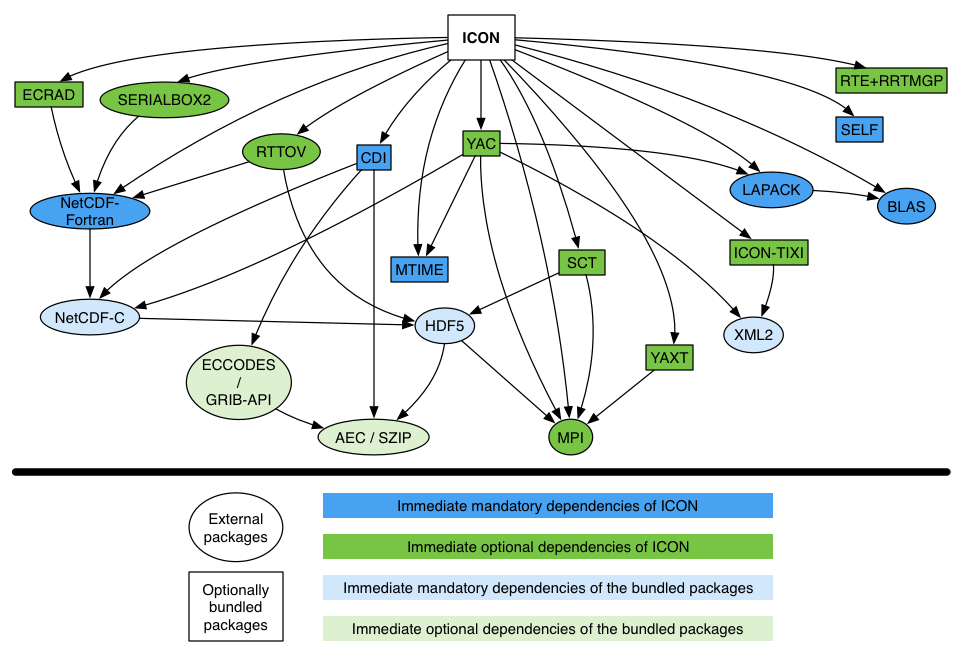
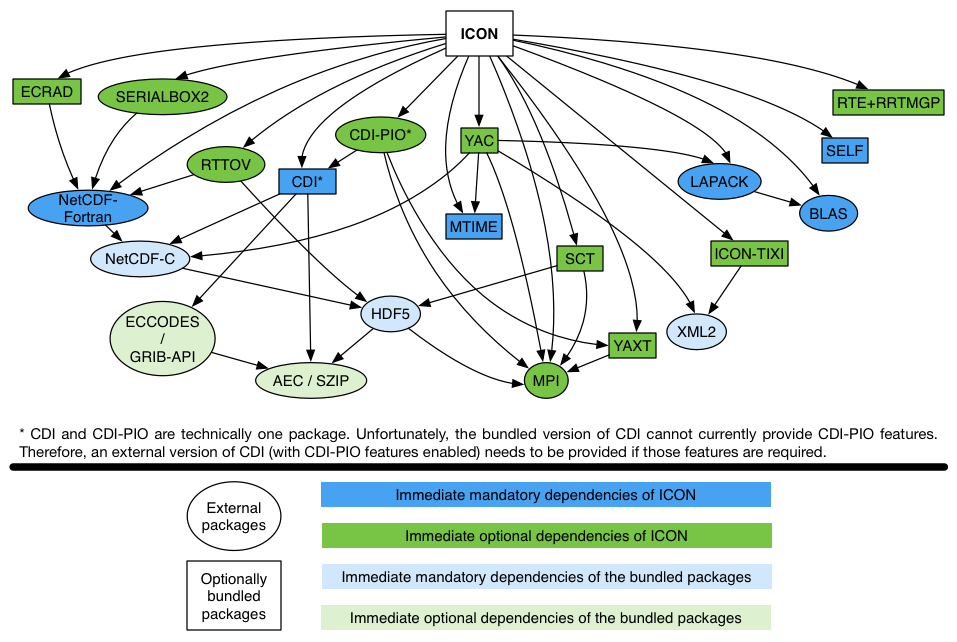
DOC: update.

diff --git a/README.md b/README.md
@@ -40,28 +40,38 @@ Upon successful configuration, the building can be started with the standard
 
 <a name="icon-deptable">*Table 1. ICON dependencies*</a>
 
-| Linking order | Package | Repo | Dependency condition | Required flags |
+| Linking order | Package | Repo | Dependency condition[^1] | Required flags[^1] |
 | :---: | :---: | :---: | :---: | :---: |
 |  1 | [SELF](https://code.mpimet.mpg.de/projects/self-standard-extendible-library-for-fortran) | git@git.mpimet.mpg.de:libself.git (branch: `libself-icon_v0.2-config`) | `--with-external-self` | `FCFLAGS='-I/path/to/libself/include' LDFLAGS='-L/path/to/libself/lib' LIBS='-lself'` |
 |  2 | ICON-TIXI (a modified version of [TIXI](https://github.com/DLR-SC/tixi)) | git@gitlab.dkrz.de:icon-new-config/icon-tixi.git (branch: `new-config-release`) | `--enable-art --with-external-tixi` | `FCFLAGS='-I/path/to/tixi/include' LDFLAGS='-L/path/to/tixi/lib' LIBS='-licon_tixi'` |
-|  3 | [YAC](https://doc.redmine.dkrz.de/YAC/html/) | git@gitlab.dkrz.de:icon-new-config/YAC-dev.git (branch: `new-config-release`) | `--enable-coupling --with-external-yac` | `FCFLAGS='-I/path/to/yac/include' LDFLAGS='-L/path/to/yac/lib -L/path/to/libxml2/lib -L/path/to/netcdf/lib' LIBS='-lyac -lxml2 -lnetcdf'` |
-|  4 | [XML2](http://www.xmlsoft.org/) | | `--enable-coupling` or `--enable-art --without-external-tixi` | `CPPFLAGS='-I/path/to/libxml2/include/libxml2' LDFLAGS='-L/path/to/libxml2/lib' LIBS='-lxml2'` |
+|  3 | [YAC](https://doc.redmine.dkrz.de/YAC/html/) | git@gitlab.dkrz.de:icon-new-config/YAC-dev.git (branch: `new-config-release`) | `--enable-coupling --with-external-yac` | `FCFLAGS='-I/path/to/yac/include' LDFLAGS='-L/path/to/yac/lib' LIBS='-lyac'` |
+|  4 | [XML2](http://www.xmlsoft.org/) | | `--enable-coupling`[^2] or `--enable-art`[^2]| `CPPFLAGS='-I/path/to/libxml2/include/libxml2' LDFLAGS='-L/path/to/libxml2/lib' LIBS='-lxml2'` |
 |  5 | [LAPACK](http://www.netlib.org/lapack/) (or analogue) | | mandatory | `LDFLAGS='-L/path/to/lapack/lib' LIBS='-llapack'` (depends on the implementation) |
 |  6 | [BLAS](http://www.netlib.org/blas/) (or analogue) | | mandatory | `LDFLAGS='-L/path/to/blas/lib' LIBS='-lblas'` (depends on the implementation) |
-|  7 | [MTIME](https://code.mpimet.mpg.de/projects/mtime) | git@git.mpimet.mpg.de:libmtime.git (branch: `m300488/icon-new-config`) | `--with-external-mtime` or `--without-external-mtime --enable-coupling --with-external-yac` | `FCFLAGS='-I/path/to/mtime/include' CPPFLAGS='-I/path/to/mtime/include' LDFLAGS='-L/path/to/mtime/lib' LIBS='-lmtime'` |
+|  7 | [MTIME](https://code.mpimet.mpg.de/projects/mtime) | git@git.mpimet.mpg.de:libmtime.git (branch: `m300488/icon-new-config`) | `--with-external-mtime`[^3] | `FCFLAGS='-I/path/to/mtime/include' CPPFLAGS='-I/path/to/mtime/include' LDFLAGS='-L/path/to/mtime/lib' LIBS='-lmtime'` |
 |  8 | [SERIALBOX2](https://github.com/eth-cscs/serialbox2) | | `--enable-serialization` | `FCFLAGS='-I/path/to/serialbox2/include' LDFLAGS='-L/path/to/serialbox2/lib' LIBS='-lSerialboxFortranShared'` |
-|  9 | [CDI](https://code.mpimet.mpg.de/projects/cdi/) | git@git.mpimet.mpg.de:libcdi.git (branch: `cdi-1.8.x`) | `--with-external-cdi` | `FCFLAGS='-I/path/to/libcdi/include' LDFLAGS='-L/path/to/libcdi/lib' LIBS='-lcdi_f2003 -lcdi'` |
-| 10 | [ECCODES](https://confluence.ecmwf.int/display/ECC) or [GRIB-API](https://confluence.ecmwf.int/display/GRIB/Home) | | `--enable-grib2 --without-external-cdi` or `--enable-yaxt --without-external-yaxt --with-external-cdi` (as a workaround for YAXT, which helps only if `--enable-rpaths`, otherwise, requires setting RPATH flags manually) | `CPPFLAGS='-I/path/to/eccodes/include' LDFLAGS='-L/path/to/eccodes/lib' LIBS='-leccodes'` (or `LIBS='-lgrib_api'`) |
-| 11 | [YAXT](https://www.dkrz.de/redmine/projects/yaxt/wiki) | git@gitlab.dkrz.de:icon-new-config/yaxt.git (branch: `release-0.7.0-patched`) | `--enable-yaxt --with-external-yaxt` | `FCFLAGS='-I/path/to/yaxt/include' LDFLAGS='-L/path/to/yaxt/lib' LIBS='-lyaxt'` |
+|  9 | [CDI](https://code.mpimet.mpg.de/projects/cdi/) or CDI-PIO | git@git.mpimet.mpg.de:libcdi.git (branch: `cdi-1.8.x`) | `--with-external-cdi`[^4] | `FCFLAGS='-I/path/to/libcdi/include' LDFLAGS='-L/path/to/libcdi/lib' LIBS='-lcdi_f2003 -lcdi'` (or `LIBS='-lcdi_f2003 -lcdipio -lcdi'`) |
+| 10 | [ECCODES](https://confluence.ecmwf.int/display/ECC) or [GRIB-API](https://confluence.ecmwf.int/display/GRIB/Home) | | `--enable-grib2 --without-external-cdi`[^5] | `CPPFLAGS='-I/path/to/eccodes/include' LDFLAGS='-L/path/to/eccodes/lib' LIBS='-leccodes'` (or `LIBS='-lgrib_api'`) |
+| 11 | [YAXT](https://www.dkrz.de/redmine/projects/yaxt/wiki) | git@gitlab.dkrz.de:icon-new-config/yaxt.git (branch: `release-0.7.0-patched`) | `--enable-yaxt --with-external-yaxt` or `--enable-cdi-pio --with-external-yaxt`[^6] | `FCFLAGS='-I/path/to/yaxt/include' LDFLAGS='-L/path/to/yaxt/lib' LIBS='-lyaxt'` |
 | 12 | [SCT](https://code.mpimet.mpg.de/projects/performance-monitoring/wiki/Access_of_stored_performance_data) | git@gitlab.dkrz.de:icon-new-config/sct.git (branch: `master-release`) | `--enable-sct --with-external-sct` | `FCFLAGS='-I/path/to/sct/include' LDFLAGS='-L/path/to/sct/lib' LIBS='-lsct'` |
 | 13 | RTTOV (a modified? version of [RTTOV](https://www.nwpsaf.eu/site/software/rttov/)) | | `--enable-rttov` | `FCFLAGS='-I/path/to/rttov/include' LDFLAGS='-L/path/to/rttov/lib' LIBS='-lradiance -lrttov10.2'` |
 | 14 | [ECRAD](https://confluence.ecmwf.int/display/ECRAD/ECMWF+Radiation+Scheme+Home) | git@gitlab.dkrz.de:icon-new-config/ecrad.git (branch: `master`) | `--enable-ecrad --with-external-ecrad` | `FCFLAGS='-I/path/to/ecrad/include' LDFLAGS='-L/path/to/ecrad/lib' LIBS='-lradiation -lifsrrtm -lutilities -lifsaux'` |
 | 15 | [RTE+RRTMGP](https://github.com/RobertPincus/rte-rrtmgp) | git@github.com:skosukhin/rte-rrtmgp.git (branch: `icon`) | `--enable-rte-rrtmgp --with-external-rte-rrtmgp` | `FCFLAGS='-I/path/to/rte-rrtmgp/include' LDFLAGS='-L/path/to/rte-rrtmgp/lib' LIBS='-lrrtmgp -lrte'` |
 | 16 | [NetCDF-Fortran](https://www.unidata.ucar.edu/software/netcdf/docs-fortran/) | | mandatory | `FCFLAGS='-I/path/to/netcdf-fortran/include' LDFLAGS='-L/path/to/netcdf-fortran/lib' LIBS='-lnetcdff'` |
-| 17 | [NetCDF-C](https://www.unidata.ucar.edu/software/netcdf/docs/) | | `--without-external-cdi` or `--enable-coupling` | `CPPFLAGS='-I/path/to/netcdf/include' LDFLAGS='-L/path/to/netcdf/lib' LIBS='-lnetcdf'` |
+| 17 | [NetCDF-C](https://www.unidata.ucar.edu/software/netcdf/docs/) | | `--without-external-cdi` or `--enable-coupling`[^7] | `CPPFLAGS='-I/path/to/netcdf/include' LDFLAGS='-L/path/to/netcdf/lib' LIBS='-lnetcdf'` |
 | 18 | [HDF5](https://support.hdfgroup.org/HDF5/) | | `--enable-sct --without-external-sct` | `CPPFLAGS='-I/path/to/hdf5/include' LDFLAGS='-L/path/to/hdf5/lib' LIBS='-lhdf5'` |
 | 19 | [AEC](https://gitlab.dkrz.de/k202009/libaec) or [SZIP](https://support.hdfgroup.org/doc_resource/SZIP/) | | static linking | `LDFLAGS='-L/path/to/aec/lib' LIBS='-laec'` (or `LIBS='-lsz'`) |
-| 20 | [MPI](https://www.mpi-forum.org/) (Fortran interface) | | `--enable-mpi` or `--enable-yaxt --without-external-yaxt` or `--enable-coupling --without-external-yac` (both mpif.h and mpi.mod interfaces are required) | `FC='/path/to/mpi/bin/mpif90'` or `FCFLAGS='-I/path/to/mpi/include' LDFLAGS='-L/path/to/mpi/lib' LIBS='-lmpifort -lmpi'` (depends on the implementation) |
+| 20 | [MPI](https://www.mpi-forum.org/) (Fortran interface) | | `--enable-mpi` or `--enable-yaxt --without-external-yaxt` or `--enable-coupling --without-external-yac`[^8] | `FC='/path/to/mpi/bin/mpif90'` or `FCFLAGS='-I/path/to/mpi/include' LDFLAGS='-L/path/to/mpi/lib' LIBS='-lmpifort -lmpi'` (depends on the implementation) |
 | 21 | [MPI](https://www.mpi-forum.org/) (C interface) | | `--enable-mpi --enable-coupling --without-external-yac` or `--enable-yaxt --without-external-yaxt` or `--enable-mpi --enable-sct --without-external-sct` | `CC=/path/to/mpi/bin/mpicc` or `CPPFLAGS=-I/path/to/mpi/include LDFLAGS='-L/path/to/mpi/lib' LIBS='-lmpi'` (depends on the implementation) |
+
+
+[^1]: The dependency conditions and required flags are specified assuming that the shared versions of the libraries containing RPATHs to their dependencies are used.
+[^2]: There are no shared versions of YAC (required for the coupling) and ICON-TIXI (required by the ART component) libraries, which could link XML2 library implicitly, therefore the latter needs to be linked explicitly regardless of whether external or the bundled versions of YAC and ICON-TIXI are used.
+[^3]: When the coupling is enabled (`--enable-coupling`) and an external version of YAC (`--with-external-yac`) is used, the usage of an external MTIME library (`--with-external-mtime`) is mandatory (must be the library that YAC has been built with).
+[^4]: Currently, the bundled version of CDI does not provide CDI-PIO features, therefore the usage of an external version of CDI (`--with-external-cdi`) is the only option when the parallel I/O features (`--enable-cdi-pio`) are required.
+[^5]: Another possible case when a special treatment for ECCODES/GRIB-API library might not be expected[^1] but is required is when the bundled version of YAXT (`--enable-yaxt --without-external-yaxt`) and an external version of CDI (`--with-external-cdi`) are used. The configure script of YAXT runs a check that links an executable using libtool and then runs it. Since neither ECCODES nor GRIB-API is a libtool library (i.e. there are no `.la` files for them), the resulting executable does not have the required RPATH entry for it, which results into a false negative result of the check, which fails the configuration with a misleading message. To circumvent this problem, the path to the ECCODES/GRIB-API library must be passed to the linker before running the configure script of ICON, e.g. by means of the `LD_LIBRARY_PATH` environment variable.
+[^6]: When the usage of the parallel features of CDI is enabled (`--enable-cdi-pio`) and an external version of CDI (`--with-external-cdi`) is used, the usage of an external YAXT library (`--with-external-yaxt`) is mandatory (must be the library that CDI has been built with).
+[^7]: There is no shared version of YAC (required for the coupling) library, which could link NetCDF-C library implicitly, therefore the latter needs to be linked explicitly regardless of whether an external or the bundled version of YAC is used.
+[^8]: Both `mpif.h` and `mpi.mod` interfaces are required for the bundled version of YAC.
 
 
